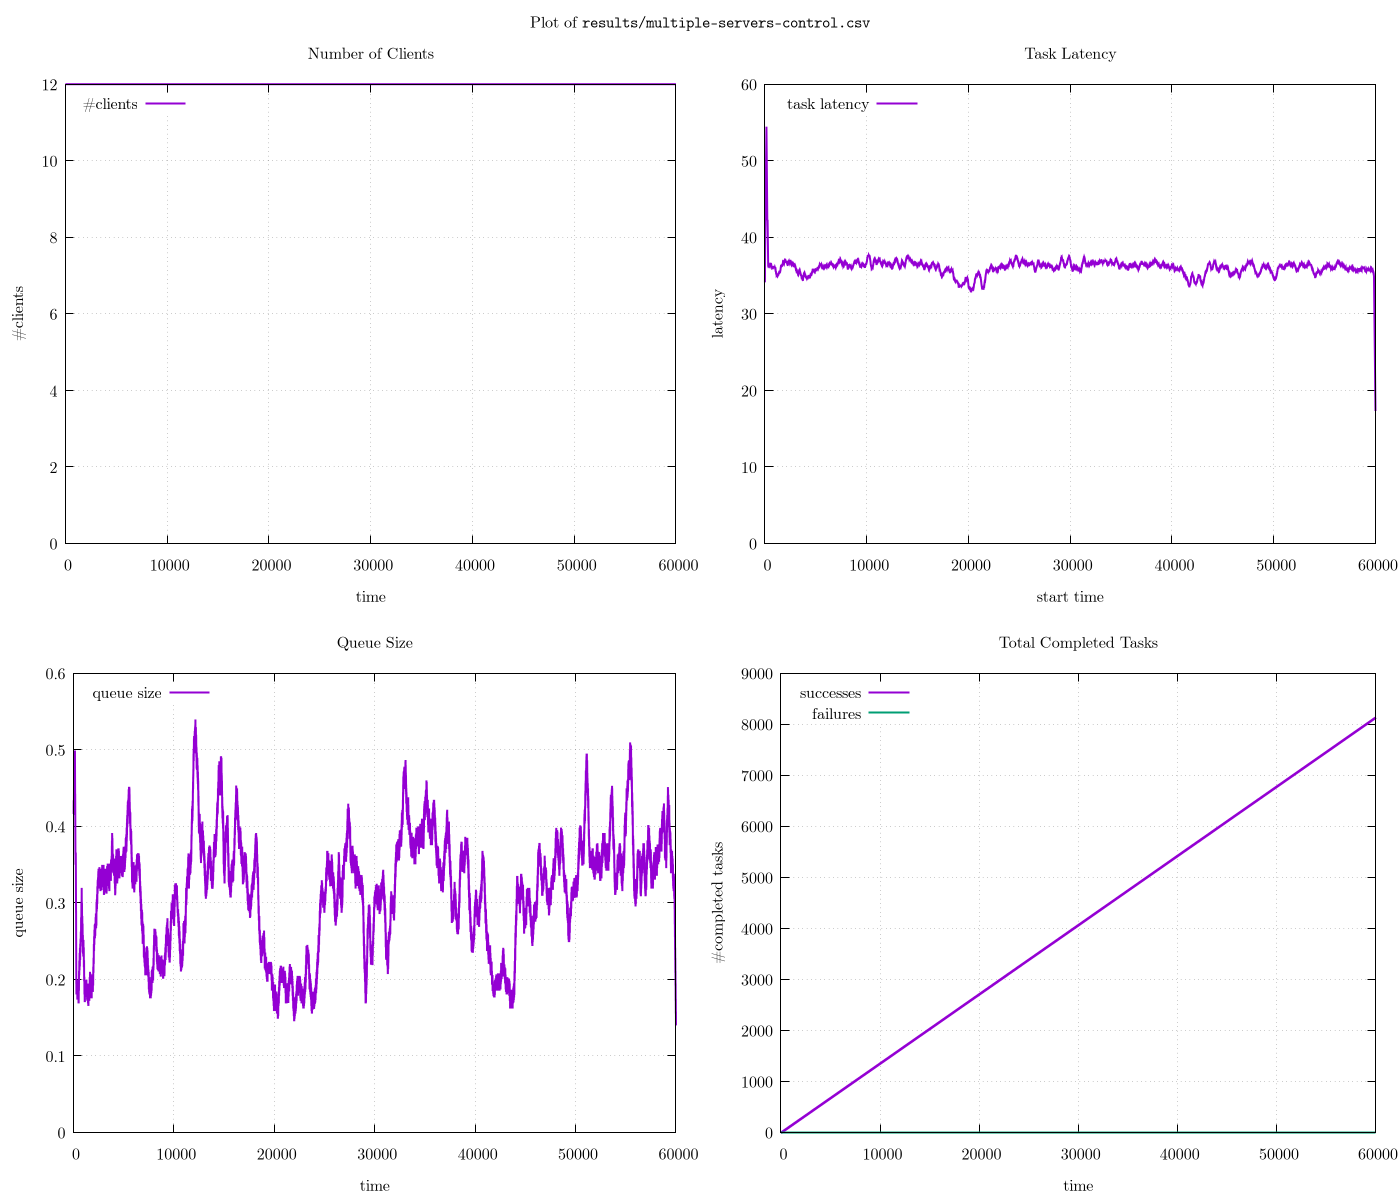
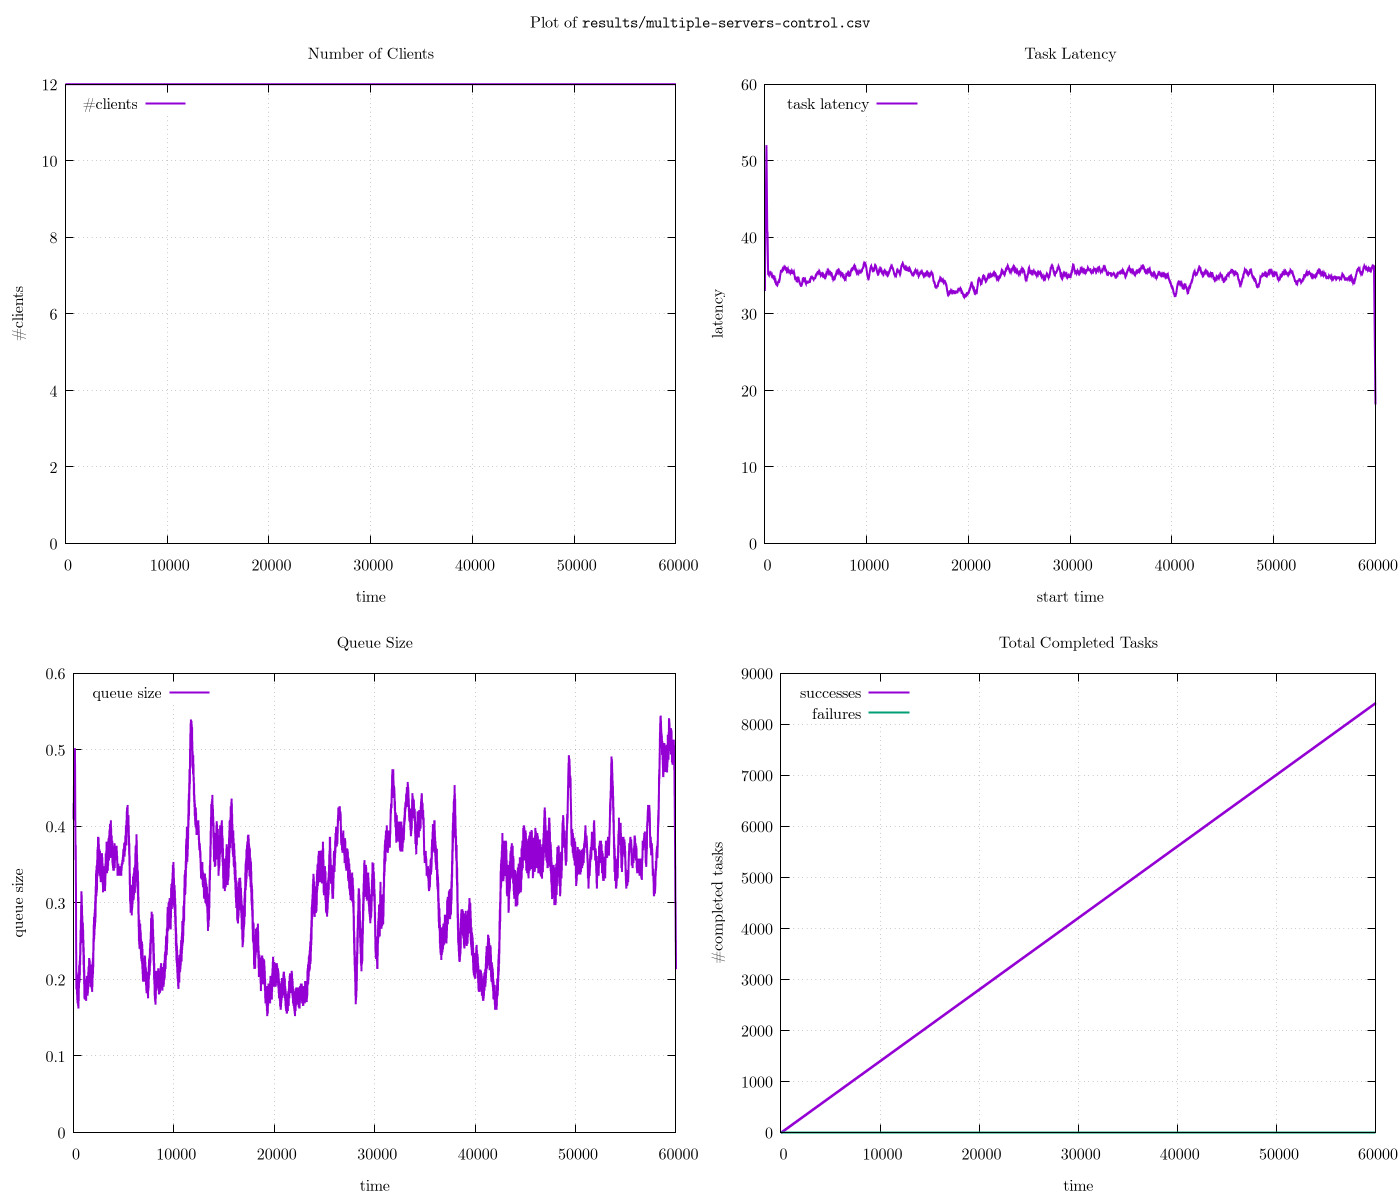
Rework scheduling

diff --git a/des/sim.py b/des/sim.py
@@ -1,4 +1,5 @@
 import hashlib
+import heapq
 import inspect
 import sqlite3
 import types
@@ -8,11 +9,13 @@ from contextvars import ContextVar
 from dataclasses import dataclass, field, replace
 from random import Random
 from typing import (
+    TYPE_CHECKING,
     Any,
     Awaitable,
     Callable,
     Coroutine,
     Generator,
+    Iterable,
     Mapping,
     Protocol,
     Self,
@@ -22,7 +25,9 @@ from typing import (
 from uuid import UUID, uuid4
 
 from frozendict import frozendict
-from tqdm import tqdm
+
+if TYPE_CHECKING:
+    from _typeshed import SupportsAllComparisons
 
 __all__ = [
     "Message",
@@ -206,7 +211,7 @@ class Context(Protocol):
     @property
     def self_addr(self) -> Addr: ...
     @property
-    def sent_messages(self) -> list[tuple[Addr, Message]]: ...
+    def sent_messages(self) -> list[Event]: ...
 
 
 class StateMachine(Protocol):
@@ -412,7 +417,7 @@ def async_transition(continuation: StateMachine):
 class ContextImpl:
     event_loop: EventLoop
     self_addr: Addr
-    sent_messages: list[tuple[Addr, Message]]
+    sent_messages: list[Event]
 
 
 class _LeakDetector:
@@ -438,14 +443,12 @@ class Node:
         self.inbox: list[Message] = []
         self.drop_hints: list[Matcher] = []
         self.fuel_per_epoch: int | None = None
-        self.unlimited_fuel = False
+        self.unlimited_fuel = True
         self.stopped = False
         self._detector = _LeakDetector(alpha=0.09, threshold=0.1)
         self._addr = None
 
-    def run(
-        self, fuel: int, self_addr: Addr, event_loop: EventLoop
-    ) -> list[tuple[Addr, Message]]:
+    def run(self, fuel: int, self_addr: Addr, event_loop: EventLoop) -> list[Event]:
         self._addr = self_addr
         if self.stopped:
             return []
@@ -539,40 +542,68 @@ class RunResult:
         return conn
 
 
-class StopCondition(Protocol):
-    def process_logs(self, logs: list[LogEntry]): ...
-    @property
-    def should_stop(self) -> bool: ...
+@dataclass(slots=True)
+class _PQEntry[T]:
+    priority: SupportsAllComparisons
+    item: T
+
+    def __lt__(self, other: Self):
+        return self.priority < other.priority
+
+    def __gt__(self, other: Self):
+        return self.priority > other.priority
 
 
-class StopAfterNodesExited:
-    def __init__(self, nodes: Sequence[Addr], exit_msg: str = "exited"):
-        self.nodes = set(nodes)
-        self.exit_msg = exit_msg
-        self.exited_nodes = set()
+class PriorityQueue[T]:
+    def __init__(self, *items: T, key: Callable[[T]] = lambda x: x):
+        self._key = key
+        self._items = list(_PQEntry(key(item), item) for item in items)
+        heapq.heapify(self._items)
 
-    def process_logs(self, logs: list[LogEntry]):
-        for log in logs:
-            if log.msg == self.exit_msg and log.addr in self.nodes:
-                self.exited_nodes.add(log.addr)
+    def push(self, item: T):
+        heapq.heappush(self._items, _PQEntry(self._key(item), item))
 
-    @property
-    def should_stop(self) -> bool:
-        return self.exited_nodes == self.nodes
+    def extend(self, items: Iterable[T]):
+        for item in items:
+            self.push(item)
+
+    def pop(self) -> T | None:
+        if not self._items:
+            return None
+        return heapq.heappop(self._items).item
+
+    def pop_while(self, cond: Callable[[T], bool]) -> Generator[T]:
+        while self._items and cond(self._items[0].item):
+            yield heapq.heappop(self._items).item
+
+    def peek(self) -> T | None:
+        if not self._items:
+            return None
+        return self._items[0].item
+
+    def __len__(self) -> int:
+        return len(self._items)
+
+    def __bool__(self) -> bool:
+        return bool(self._items)
+
+
+@dataclass
+class Event:
+    recipient: Addr
+    delivery_epoch: int
+    message: Message
 
 
 class EventLoop:
-    def __init__(self, without_defaults: bool = False):
+    def __init__(self):
         self.nodes = dict[Addr, Node]()
         self.fuel_per_epoch = 100
         self.logs: list[LogEntry] = []
         self.new_logs: list[LogEntry] = []
         self.epoch = 0
         self.rngs = dict[Addr, Random]()
-
-        if not without_defaults:
-            self.spawn(_TIMER_ADDR, _make_timer())
-            self.nodes[_TIMER_ADDR].unlimited_fuel = True
+        self.event_queue = PriorityQueue[Event](key=lambda event: event.delivery_epoch)
 
     def spawn(
         self,
@@ -584,29 +615,35 @@ class EventLoop:
         self.nodes[addr] = node
         self.rngs[addr] = Random(hashlib.sha256(addr.name.encode()).digest())
 
-    def run(self, epochs: int = 1, condition: StopCondition | None = None):
-        for _ in tqdm(range(epochs), unit="epoch", total=epochs):
-            sent_messages: list[tuple[Addr, Message]] = []
+    def run(self, epochs: int = 1):
+        while True:
+            if self.epoch >= epochs:
+                break
+
+            events = list(
+                self.event_queue.pop_while(lambda e: e.delivery_epoch <= self.epoch)
+            )
+
+            for event in events:
+                try:
+                    node = self.nodes[event.recipient]
+                except KeyError:
+                    raise RuntimeError(f"Send to unknown address: {event}")
+                node.deliver(event.message)
+
             for addr, node in self.nodes.items():
-                sent_messages.extend(
+                self.event_queue.extend(
                     node.run(
                         fuel=node.fuel_per_epoch or self.fuel_per_epoch,
                         self_addr=addr,
                         event_loop=self,
                     )
                 )
-            for dest_addr, raw_msg in sent_messages:
-                try:
-                    self.nodes[dest_addr].deliver(raw_msg)
-                except KeyError:
-                    raise RuntimeError(f"Unknown address: {dest_addr}")
 
-            if condition is not None:
-                condition.process_logs(self.new_logs)
-                if condition.should_stop:
-                    break
-
-            self.epoch += 1
+            if next_event := self.event_queue.peek():
+                self.epoch = max(self.epoch + 1, next_event.delivery_epoch)
+            else:
+                break
             self.commit_logs()
 
         return RunResult(logs=self.logs, num_epochs=self.epoch)
@@ -620,7 +657,15 @@ class EventLoop:
 
 
 def send(addr: Addr, *args: Any, **kwargs: Any):
-    context().sent_messages.append((addr, message(*args, **kwargs)))
+    context().sent_messages.append(
+        Event(recipient=addr, delivery_epoch=0, message=message(*args, **kwargs))
+    )
+
+
+def send_scheduled(at: int, addr: Addr, *args: Any, **kwargs: Any):
+    context().sent_messages.append(
+        Event(recipient=addr, delivery_epoch=at, message=message(*args, **kwargs))
+    )
 
 
 def self() -> Addr:
@@ -703,9 +748,9 @@ async def ask_timeout(
 ) -> Any:
     result_ref = Ref()
     send(addr, method, self(), result_ref, *args)
-    sleep_ref = Ref()
-    send(_TIMER_ADDR, Sleep, self(), sleep_ref, timeout)
-    msg = await _race_refs(result_ref, sleep_ref)
+    timeout_ref = Ref()
+    send_scheduled(now() + timeout, self(), timeout_ref, hint="timeout")
+    msg = await _race_refs(result_ref, timeout_ref)
     if msg.args[0] == result_ref:
         return msg.args[1]
     else:
@@ -715,56 +760,16 @@ async def ask_timeout(
 class Loop(Atom): ...
 
 
-class Sleep(Atom): ...
+async def sleep(duration: int):
+    ref = Ref()
+    send_scheduled(now() + duration, self(), ref, hint="wake")
+    await wait(ref)
 
 
-class SleepUntil(Atom): ...
-
-
-_TIMER_ADDR = Addr("__internal.timer")
-
-
-def sleep(duration: int):
-    return ask(_TIMER_ADDR, Sleep, duration)
-
-
-def sleep_until(deadline: int):
-    return ask(_TIMER_ADDR, SleepUntil, deadline)
-
-
-def _make_timer():
-    waiting_tasks: dict[Ref, tuple[Addr, int]] = {}
-
-    timer = SMBuilder()
-
-    @timer.handle(Sleep)
-    async def sleep(sender: Addr, ref: Ref, duration: int):
-        wake_time = now() + duration
-        waiting_tasks[ref] = (sender, wake_time)
-
-    @timer.handle(SleepUntil)
-    async def sleep_until(sender: Addr, ref: Ref, until: int):
-        if until <= now():
-            send(sender, ref)
-            return
-        wake_time = until
-        waiting_tasks[ref] = (sender, wake_time)
-
-    @timer.handle(Loop)
-    async def loop():
-        send(self(), Loop)
-
-        current_time = now()
-        to_wake = [
-            ref
-            for ref, (_, wake_time) in waiting_tasks.items()
-            if wake_time <= current_time
-        ]
-        for ref in to_wake:
-            sender, _ = waiting_tasks.pop(ref)
-            send(sender, ref, hint="wake")
-
-    return initialize(timer, message(Loop))
+async def sleep_until(deadline: int):
+    ref = Ref()
+    send_scheduled(deadline, self(), ref, hint="wake")
+    await wait(ref)
 
 
 class ResponderFn(Protocol):

diff --git a/main.py b/main.py
@@ -393,7 +393,7 @@ def single_server_vary_queue_size(qs):
             num_clients=3,
             num_clients_spike=5,
             num_clients_after_spike=3,
-            work_time_range=(25, 27),
+            work_time_range=(26, 28),
             inter_task_sleep_range=(49, 52),
             submit_timeout=83,
             retry_policy=constant_retry(wait_time=2),
@@ -414,7 +414,7 @@ def multiple_servers(version: Literal["control", "test"]):
             num_clients=12,
             num_clients_spike=20,
             num_clients_after_spike=12,
-            work_time_range=(25, 27),
+            work_time_range=(26, 28),
             inter_task_sleep_range=(49, 52),
             submit_timeout=83,
             retry_policy=constant_retry(wait_time=2),
